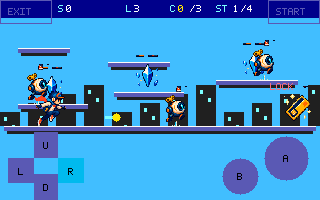
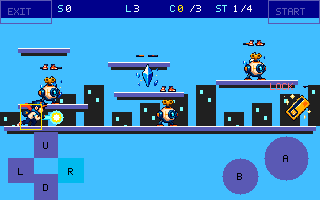
Improve Skyline Leap pulse feedback

diff --git a/games/skyline_leap/src/skyline_leap.c b/games/skyline_leap/src/skyline_leap.c
@@ -22,7 +22,7 @@ enum {
     PLAYER_HEIGHT = 18,
     BOT_WIDTH = 16,
     BOT_HEIGHT = 14,
-    PULSE_SIZE = 8,
+    PULSE_SIZE = 10,
     PULSE_SPEED = 6,
     MAX_PLATFORMS = 7,
     MAX_BOTS = 3,
@@ -76,6 +76,8 @@ typedef struct {
     int16_t player_y;
     int16_t pulse_x;
     int16_t pulse_y;
+    int16_t feedback_x;
+    int16_t feedback_y;
     int8_t velocity_y;
     int8_t facing;
     int8_t pulse_direction;
@@ -86,6 +88,7 @@ typedef struct {
     uint32_t score;
     uint16_t transition_ms;
     uint16_t animation_ms;
+    uint16_t attack_flash_ms;
     uint16_t pulse_cooldown_ms;
     uint8_t level;
     uint8_t lives;
@@ -158,6 +161,14 @@ static int clamp_int(int value, int lower, int upper)
         return lower;
     }
     return value > upper ? upper : value;
+}
+
+static void set_feedback_position(skyline_leap_state_t *state, int x, int y)
+{
+    state->feedback_x = (int16_t)clamp_int(
+        x, 0, P4_GAME_SURFACE_WIDTH - 1);
+    state->feedback_y = (int16_t)clamp_int(
+        y, PLAY_TOP, P4_GAME_SURFACE_HEIGHT - 1);
 }
 
 static bool ranges_overlap(int first_left, int first_width,
@@ -294,13 +305,23 @@ static void draw_stage(p4_game_surface_t *surface,
     }
     if (state->pulse_active) {
         const int trail_x = state->pulse_direction > 0
-            ? state->pulse_x - PULSE_SIZE - 3 : state->pulse_x + 3;
+            ? state->pulse_x - PULSE_SIZE - 5 : state->pulse_x + 5;
+        p4_draw_fill_rect(surface, trail_x, state->pulse_y - 2,
+                          PULSE_SIZE + 6, 5, COLOR_TEAL);
         p4_draw_fill_rect(surface, trail_x, state->pulse_y - 1,
-                          PULSE_SIZE, 3, COLOR_TEAL_LIGHT);
+                          PULSE_SIZE + 4, 3, COLOR_TEAL_LIGHT);
+        p4_draw_fill_circle(surface, state->pulse_x, state->pulse_y,
+                            PULSE_SIZE / 2 + 2, COLOR_TEAL_LIGHT);
         p4_draw_fill_circle(surface, state->pulse_x, state->pulse_y,
                             PULSE_SIZE / 2, COLOR_GOLD);
+        p4_draw_fill_circle(surface, state->pulse_x, state->pulse_y,
+                            3, COLOR_WHITE);
     }
     draw_courier(surface, state);
+    if (state->attack_flash_ms != 0U) {
+        p4_draw_rect(surface, state->player_x - 4, state->player_y - 4,
+                     PLAYER_WIDTH + 8, PLAYER_HEIGHT + 8, COLOR_GOLD);
+    }
     draw_hud(surface, state);
 }
 
@@ -344,7 +365,10 @@ static void reset_stage(skyline_leap_state_t *state)
     state->player_y = FLOOR_TOP - PLAYER_HEIGHT;
     state->velocity_y = 0;
     state->facing = 1;
+    set_feedback_position(state, state->player_x + PLAYER_WIDTH / 2,
+                          state->player_y + PLAYER_HEIGHT / 2);
     state->pulse_active = false;
+    state->attack_flash_ms = 0U;
     state->pulse_cooldown_ms = 0U;
     state->shards = 0U;
     state->simulation_ms = 0U;
@@ -441,7 +465,11 @@ static void update_pulse(p4_game_context_t *context,
         state->bot_active[bot] = false;
         state->pulse_active = false;
         state->score += 50U;
+        set_feedback_position(state, state->bot_x[bot] + BOT_WIDTH / 2,
+                              bot_y + BOT_HEIGHT / 2);
         play_tone(context, 220U, 100U, 4U, P4_WAVE_SQUARE);
+        (void)p4_game_audio_effect_play(
+            context, &state->audio, P4_GAME_AUDIO_EFFECT_IMPACT);
         return;
     }
 }
@@ -457,6 +485,8 @@ static void start_pulse(p4_game_context_t *context,
     state->pulse_x = (int16_t)(state->player_x +
         (state->pulse_direction > 0 ? PLAYER_WIDTH + 2 : -2));
     state->pulse_y = (int16_t)(state->player_y + PLAYER_HEIGHT / 2);
+    set_feedback_position(state, state->pulse_x, state->pulse_y);
+    state->attack_flash_ms = 96U;
     state->pulse_cooldown_ms = 260U;
     play_tone(context, 1040U, 55U, 4U, P4_WAVE_SQUARE);
     (void)p4_game_audio_effect_play(
@@ -472,6 +502,12 @@ static void update_attack_cooldown(skyline_leap_state_t *state,
     } else {
         state->pulse_cooldown_ms = 0U;
     }
+    if (state->attack_flash_ms > elapsed_ms) {
+        state->attack_flash_ms =
+            (uint16_t)(state->attack_flash_ms - elapsed_ms);
+    } else {
+        state->attack_flash_ms = 0U;
+    }
 }
 
 static void lose_life(p4_game_context_t *context, skyline_leap_state_t *state)
@@ -479,6 +515,8 @@ static void lose_life(p4_game_context_t *context, skyline_leap_state_t *state)
     if (state->clearing || state->game_over || state->finale) {
         return;
     }
+    set_feedback_position(state, state->player_x + PLAYER_WIDTH / 2,
+                          state->player_y + PLAYER_HEIGHT / 2);
     play_tone(context, 120U, 240U, 5U, P4_WAVE_SQUARE);
     (void)p4_game_audio_effect_play(
         context, &state->audio, P4_GAME_AUDIO_EFFECT_FAIL);
@@ -518,7 +556,11 @@ static bool check_bot_contacts(p4_game_context_t *context,
             state->player_y = (int16_t)(bot_y - PLAYER_HEIGHT);
             state->velocity_y = -5;
             state->score += 50U;
+            set_feedback_position(state, state->bot_x[bot] + BOT_WIDTH / 2,
+                                  bot_y + BOT_HEIGHT / 2);
             play_tone(context, 180U, 90U, 4U, P4_WAVE_SQUARE);
+            (void)p4_game_audio_effect_play(
+                context, &state->audio, P4_GAME_AUDIO_EFFECT_IMPACT);
             return true;
         }
         lose_life(context, state);
@@ -592,6 +634,8 @@ static void collect_shards(p4_game_context_t *context,
         state->shard_collected[item] = true;
         ++state->shards;
         state->score += 100U;
+        set_feedback_position(state, s_shards[stage][item].x,
+                              s_shards[stage][item].y);
         play_tone(context, 940U, 70U, 4U, P4_WAVE_TRIANGLE);
         (void)p4_game_audio_effect_play(
             context, &state->audio, P4_GAME_AUDIO_EFFECT_REWARD);
@@ -742,9 +786,7 @@ static bool game_render(p4_game_context_t *context,
     }
     draw_stage(surface, state);
     p4_game_feedback_draw_audio_effect(
-        surface, &state->audio,
-        state->game_over || state->finale ? 160 : state->player_x,
-        state->game_over || state->finale ? 94 : state->player_y + 9);
+        surface, &state->audio, state->feedback_x, state->feedback_y);
     if (state->paused) {
         draw_center_panel(surface, "PAUSED", "START TO RESUME", COLOR_TEAL);
     } else if (state->clearing) {

diff --git a/games/skyline_leap/tools/render_preview.c b/games/skyline_leap/tools/render_preview.c
@@ -79,7 +79,7 @@ int main(int argc, char **argv)
     };
     success = success && p4_game_instance_update(&instance, &start, 16U) ==
         P4_GAME_CONTINUE;
-    for (unsigned frame = 0U; success && frame < 14U; ++frame) {
+    for (unsigned frame = 0U; success && frame < 4U; ++frame) {
         const p4_game_input_t input = {
             .held = P4_BUTTON_RIGHT | (frame == 0U ? P4_BUTTON_B : 0U),
             .pressed = frame == 0U ? P4_BUTTON_B : 0U,
